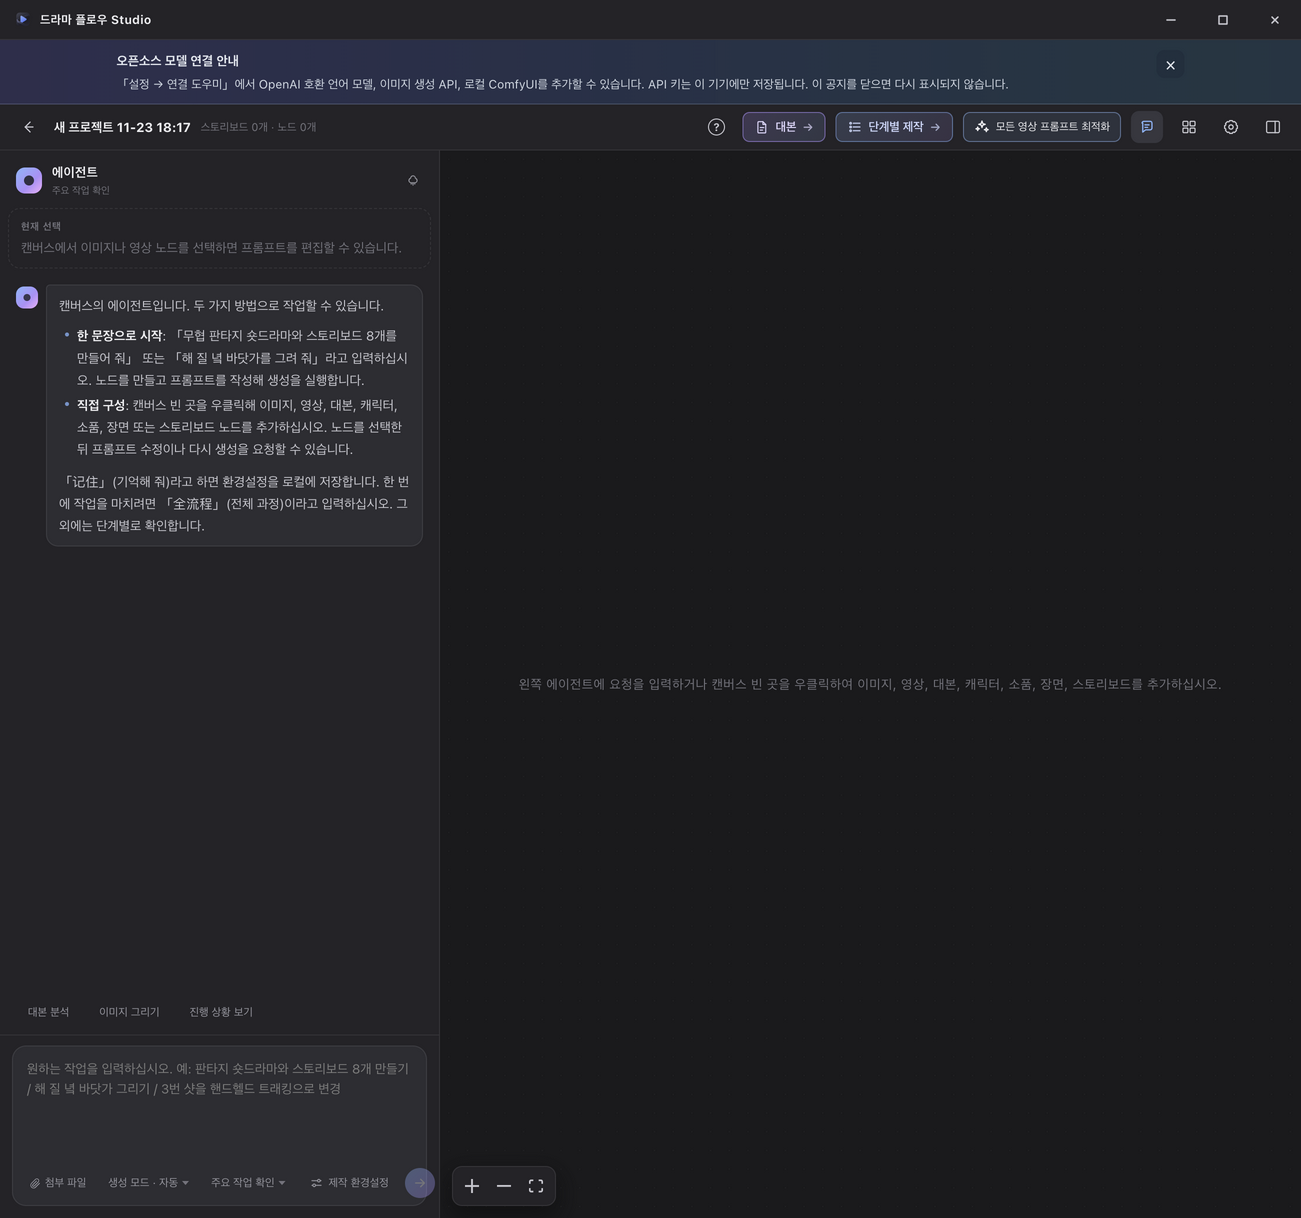
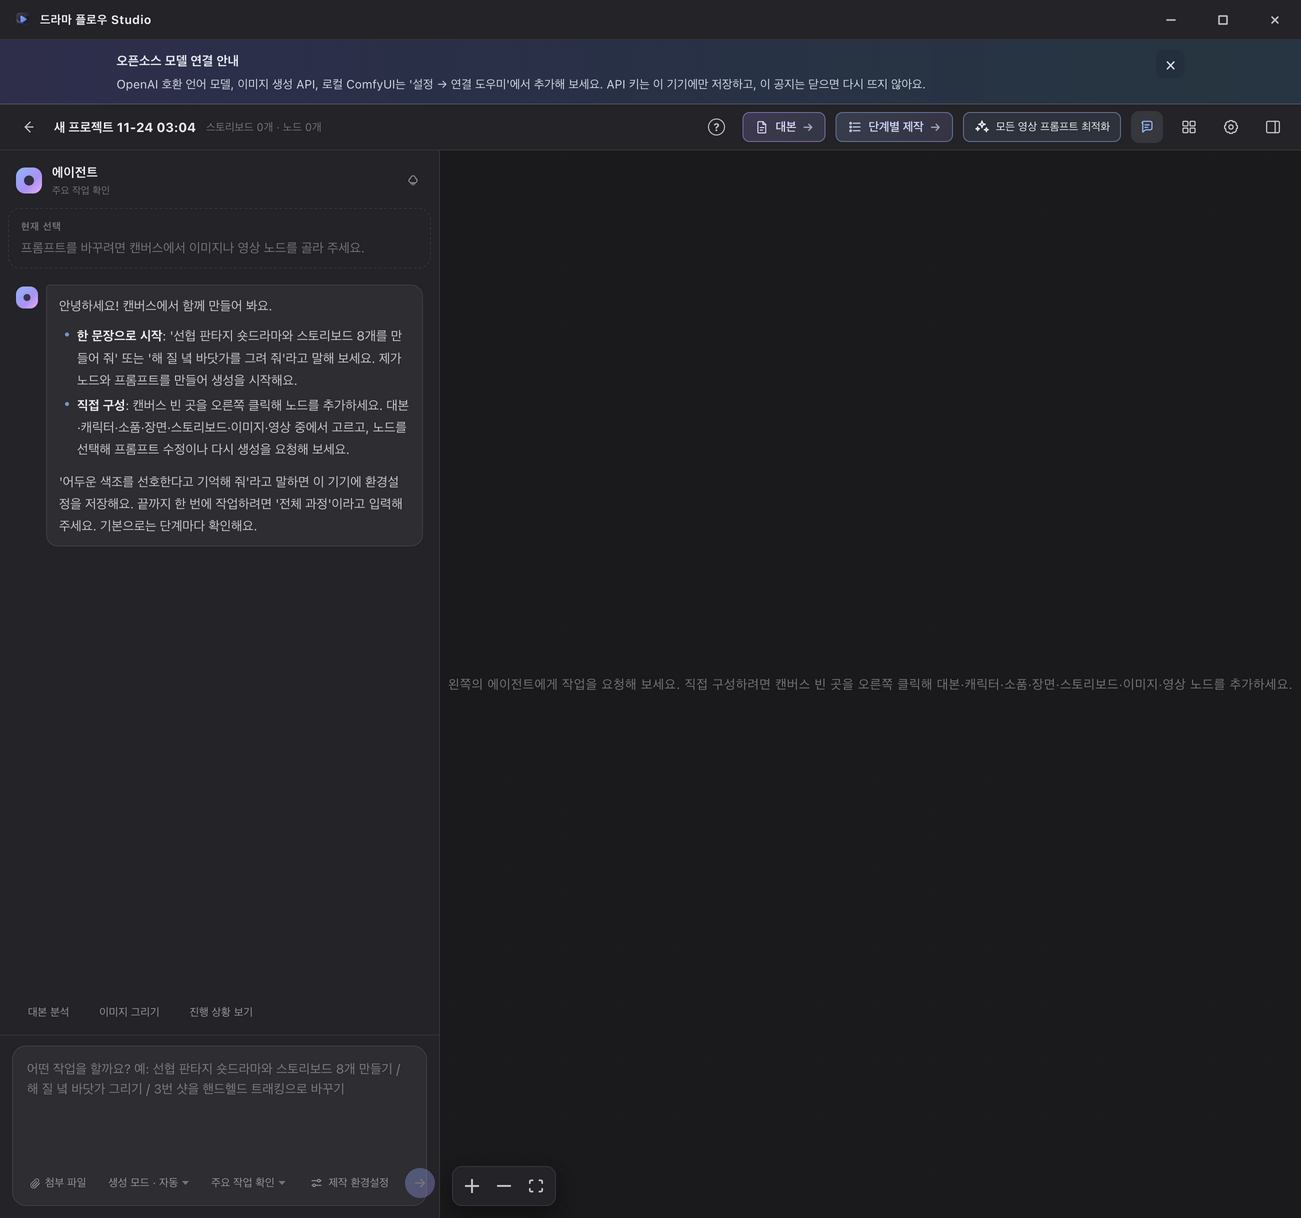
한국어 UI를 다시 캡처하고 안내 문서 갱신

diff --git a/docs/처음-사용하기.md b/docs/처음-사용하기.md
@@ -1,4 +1,4 @@
-# 튜토리얼: 극류 Studio 처음 사용하기
+# 튜토리얼: 드라마 플로우 Studio 처음 사용하기
 
 이 글은 **어려운 용어를 파고들고 싶지 않은** 분들을 위한 글입니다. 순서대로 따라 하면 대략 다음 과정을 완료할 수 있습니다. 소프트웨어 열기 → 대화 모델 설정 → (선택 사항) 로컬 ComfyUI 연결 → 첫 이미지 생성.
 
@@ -77,7 +77,7 @@ ComfyUI에서 워크플로를 저장할 때:
 - **일반 저장** → 화면용 형식(내부에 nodes, 연결선 정보가 있는 경우가 많음) → **이 소프트웨어에서 바로 사용할 수 없음**.
 - **Save (API Format)** → API 형식(노드에 class_type이 있음) → **이것을 사용하세요**.
 
-### 극류 Studio에 전달하는 방법
+### 드라마 플로우 Studio에 전달하는 방법
 
 1. Comfy에서 **API Format**의 JSON을 내보내세요.
 2. 설정으로 돌아와 해당 Comfy 연동 아래의 **「Comfy 워크플로 템플릿」** 영역으로 이동하세요.

diff --git a/CONTRIBUTING.md b/CONTRIBUTING.md
@@ -1,6 +1,6 @@
 # 기여하기
 
-극류 Studio에 기여해 주셔서 감사합니다. 변경 사항을 제출하기 전에 변경 범위가 명확한지 확인하고, 개인 미디어 자료, API Key 또는 로컬 컴퓨터 설정이 저장소에 포함되지 않도록 해 주세요.
+드라마 플로우 Studio에 기여해 주셔서 감사합니다. 변경 사항을 제출하기 전에 변경 범위가 명확한지 확인하고, 개인 미디어 자료, API Key 또는 로컬 컴퓨터 설정이 저장소에 포함되지 않도록 해 주세요.
 
 ## 로컬 개발
 

diff --git a/FEATURES.md b/FEATURES.md
@@ -1,4 +1,4 @@
-# 극류 Studio 기능 목록
+# 드라마 플로우 Studio 기능 목록
 
 이 문서는 현재 오픈 소스 브랜치의 실제 기능에 대응합니다. 각 AI 서비스의 모델 사용 권한, 요금, 입력 제한 및 생성 품질은 서비스 제공업체가 결정합니다.
 
